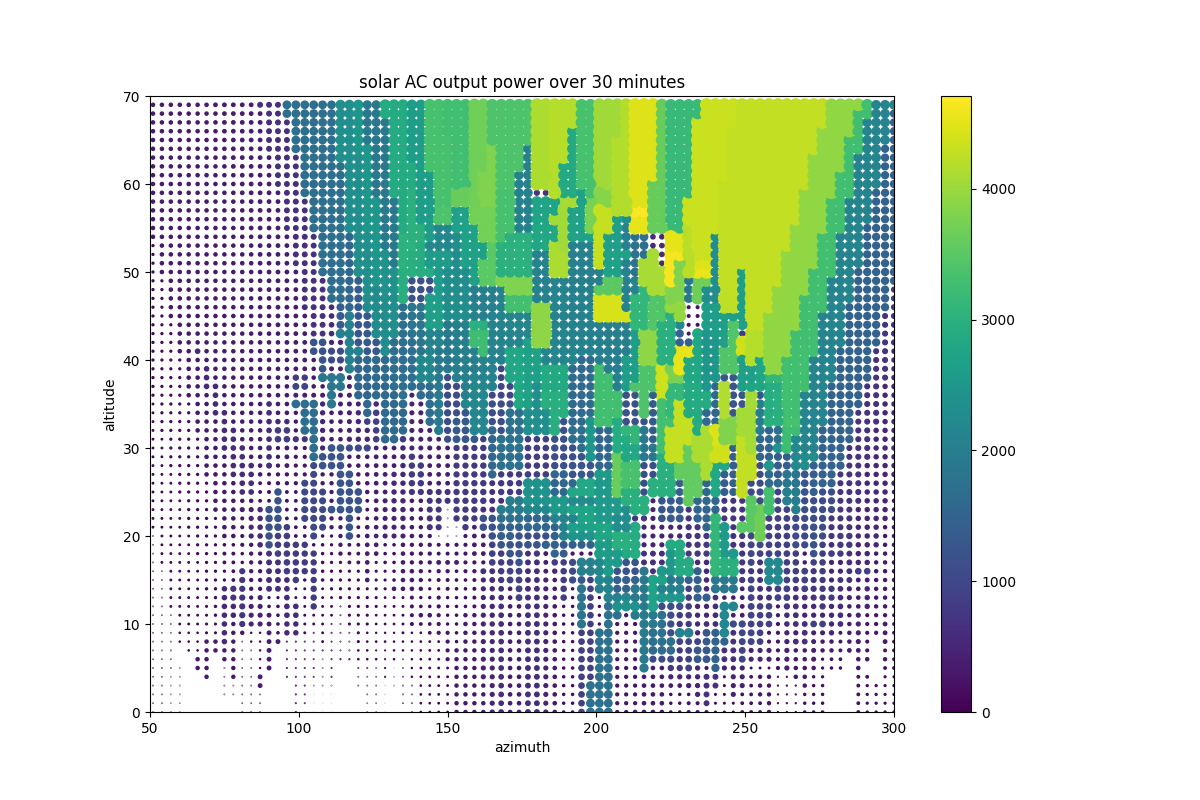
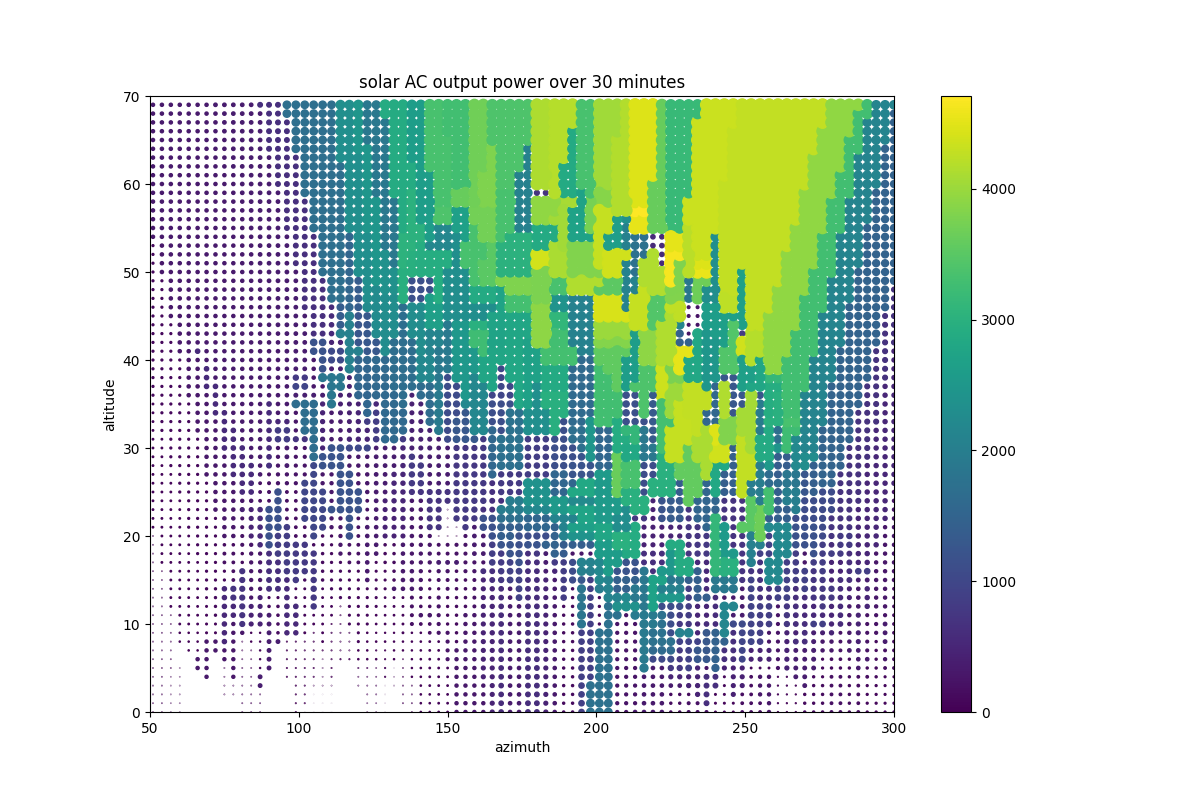
more prose

diff --git a/README.md b/README.md
@@ -19,7 +19,25 @@ There are a number of data sources we can use:
 2. Solar inverter monitoring (e.g. SolarEdge monitoring, 15 minute resolution)
 3. Clamp transformer current monitoring (Vue Emporia, 5 second resolution)
 4. Battery system monitoring (e.g. Tesla Gateway for me, 3 second resolution)
+5. Weather data.
+
+Couting up the output for each day using by clamp transformer monitoring and, when I got it, the battery system monitoring, we have:
+
+![solar dialy](solardaily.png).
+
+
+Aggregating into 30 minute buckets and showing time of day on the Y axis, we have:
 
 
 ![time series](solartimes.png)
 
+The structure becomes more self evident.
+
+I then work out the peak solar output we've seen in a 30 minute period for solar azimuth and elevation, and fill in gaps using the nearest point we have:
+
+![solar model](solarmodel.png)
+
+My solar panels are on a roof facing east south east, and the treeline is fairly high in my area. Other system will get very different fingerprints.
+
+So that's the maximum. Since I installed the system there's been a lot of cloud. We can compare what we would get by integrating the azium/elevation chart against the
+sun positions for a day, which gives us a maximum, and then compare that.
